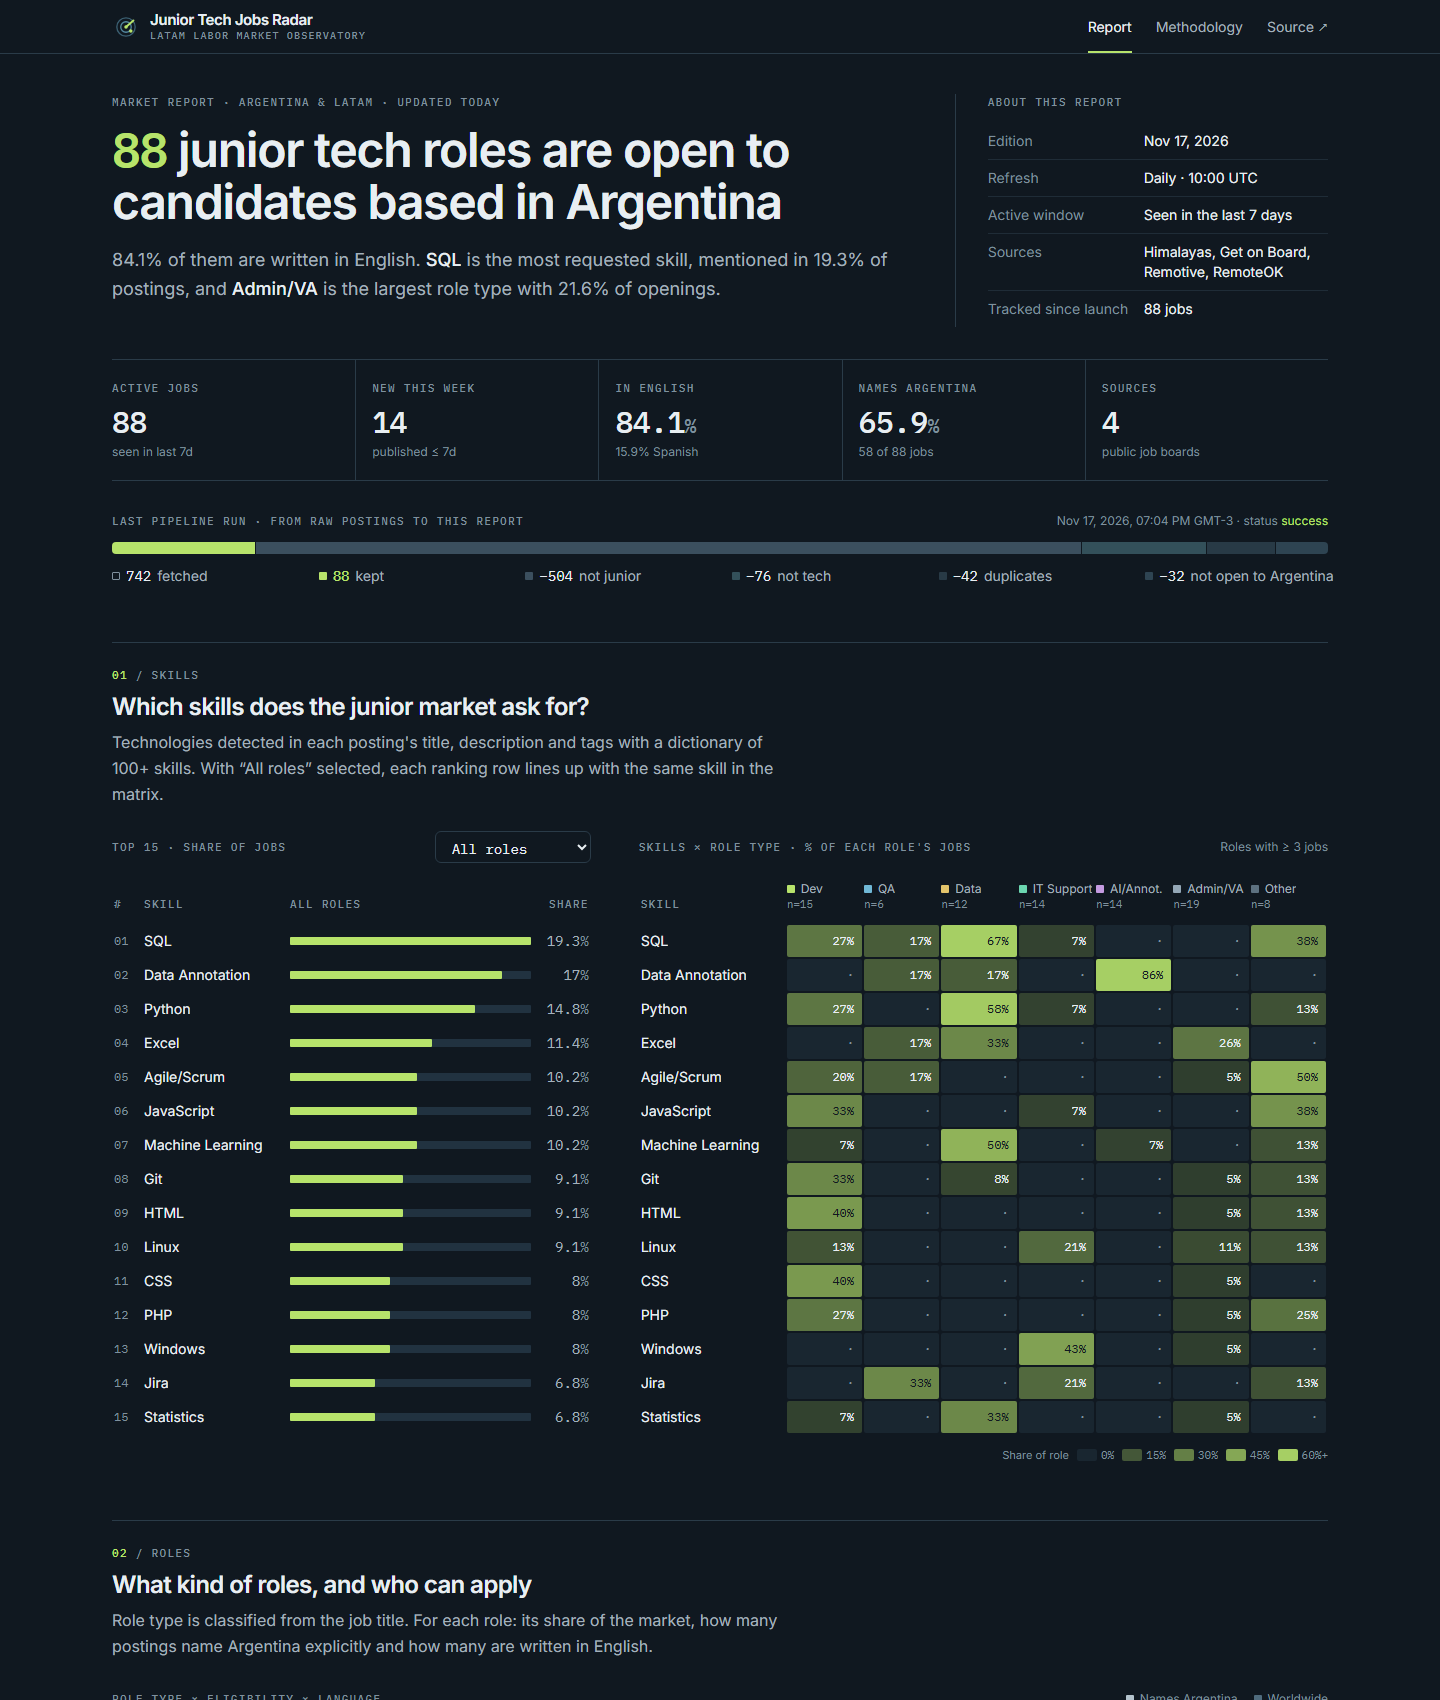
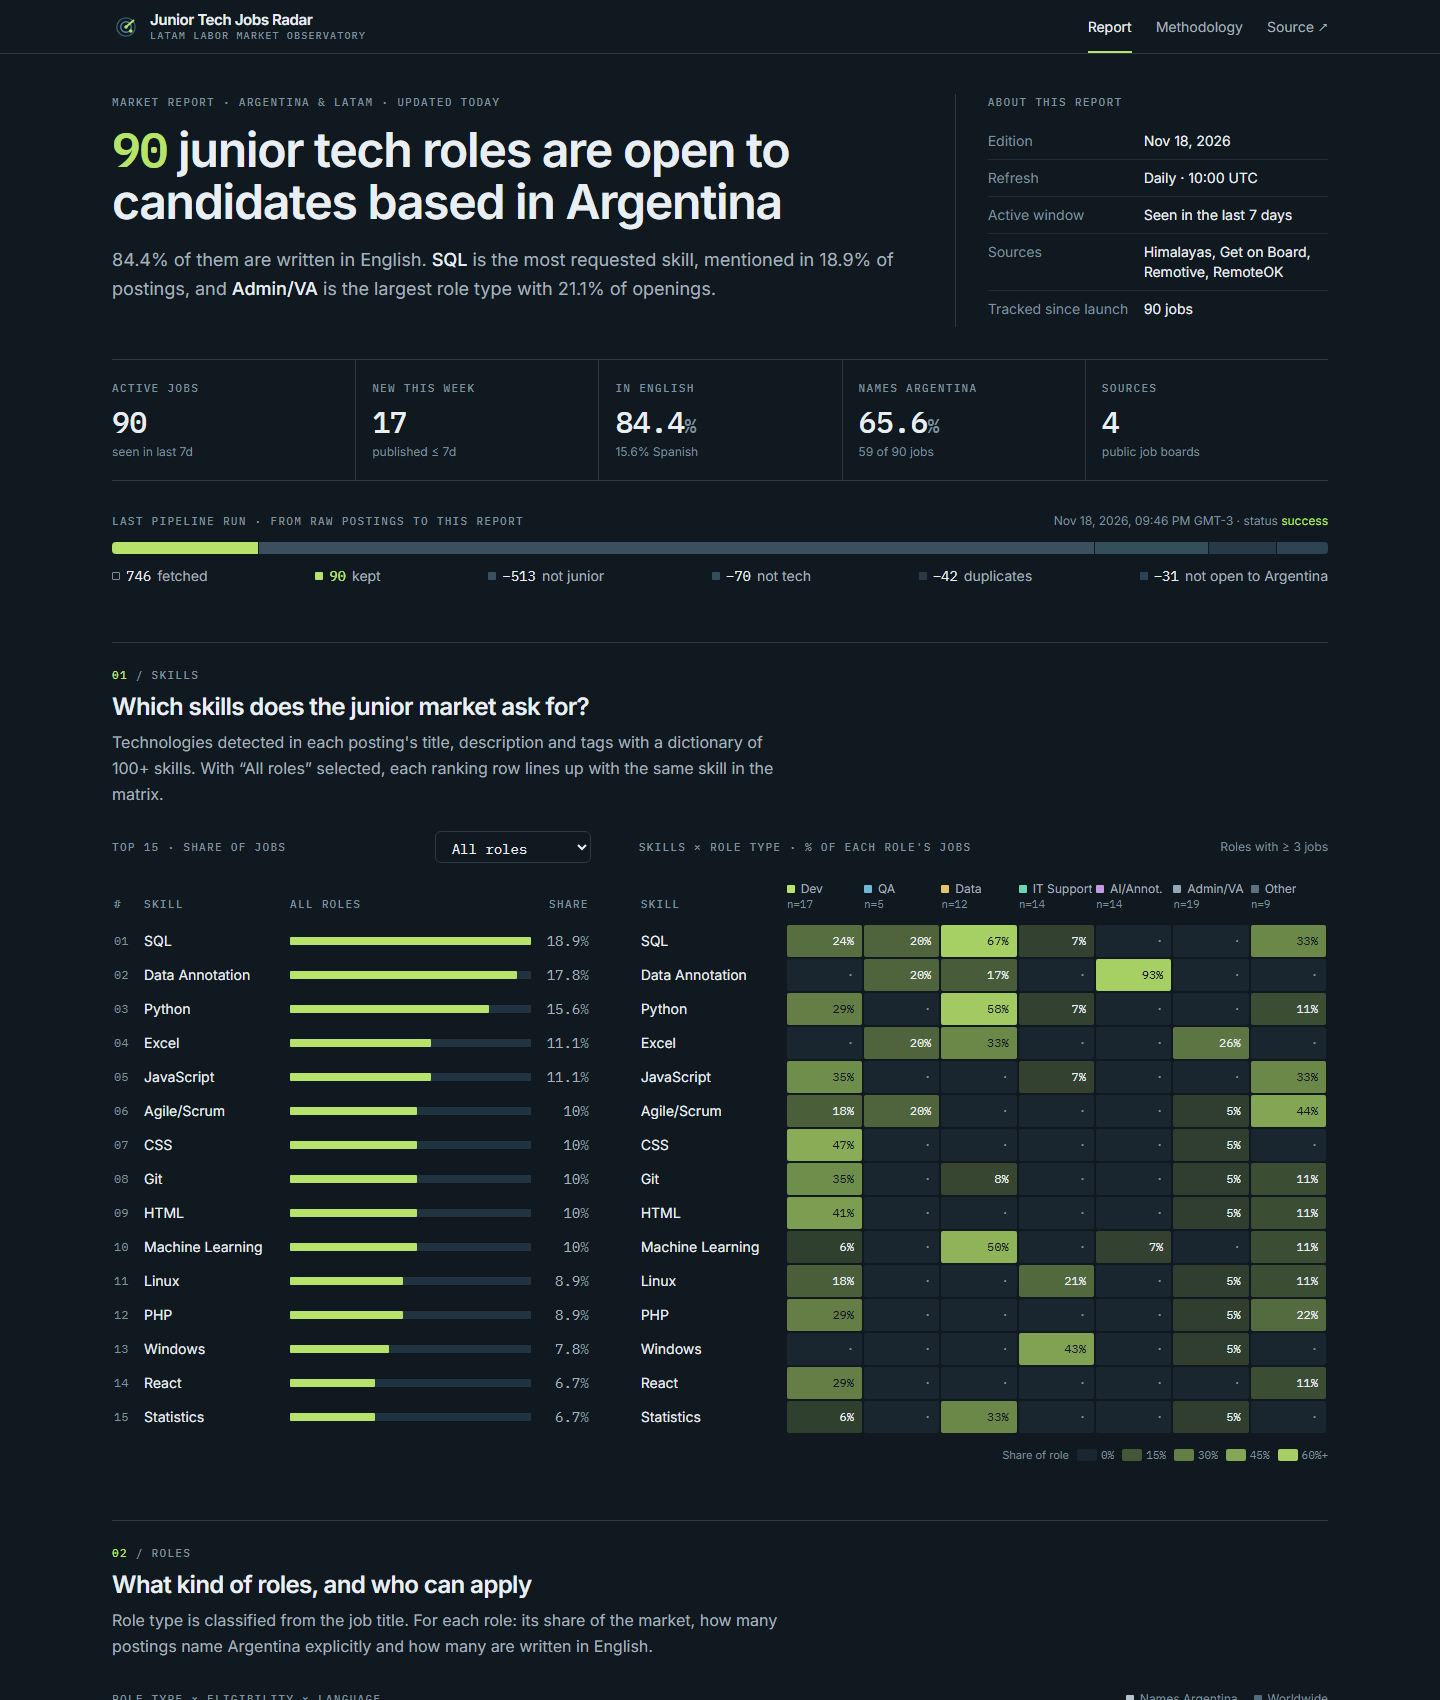
docs: live demo link and production screenshots (#27)

diff --git a/README.md b/README.md
@@ -12,7 +12,7 @@
 ![React](https://img.shields.io/badge/React-19-61DAFB?logo=react&logoColor=black)
 ![TypeScript](https://img.shields.io/badge/TypeScript-strict-3178C6?logo=typescript&logoColor=white)
 
-### [🔗 Live demo](#live-demo) · [📐 Methodology](#methodology) · [📋 Project board](https://github.com/users/lucaswsanchez/projects/1)
+### [🔗 Live demo](https://junior-tech-jobs-radar.vercel.app) · [📐 Methodology](https://junior-tech-jobs-radar.vercel.app/methodology) · [📋 Project board](https://github.com/users/lucaswsanchez/projects/1)
 
 <img src="docs/img/dashboard.png" alt="Junior Tech Jobs Radar dashboard: headline indicators, pipeline funnel, skills ranking and skills by role matrix" width="900" />
 
@@ -23,7 +23,7 @@
 The dashboard is a static site, so it loads instantly (no backend cold start). Its data is
 refreshed every day by GitHub Actions.
 
-> **Live URL:** added with the deployment. See issue [#12](https://github.com/lucaswsanchez/junior-tech-jobs-radar/issues/12).
+> **[junior-tech-jobs-radar.vercel.app](https://junior-tech-jobs-radar.vercel.app)**: open it, no sign-up needed. Data is stored in Supabase PostgreSQL and refreshed daily at 10:00 UTC.
 
 ## Features
 
@@ -35,7 +35,7 @@ refreshed every day by GitHub Actions.
 - **PostgreSQL warehouse** with an idempotent upsert and run metrics (`pipeline_runs`).
 - **8 analytical SQL queries**: top skills by role, remote share, weekly trend, skill co-occurrence with lift, and more.
 - **Market report dashboard**:
-  - headline indicators and a pipeline funnel (742 fetched → 88 kept on the first run)
+  - headline indicators and a pipeline funnel (746 postings fetched → 90 junior jobs kept on the first production run)
   - skills ranking and a skills × role heatmap
   - role × eligibility × language table, weekly trend and sources
   - a sortable, filterable job explorer, where every row links to the original posting

diff --git a/CHANGELOG.md b/CHANGELOG.md
@@ -7,7 +7,7 @@ and this project adheres to [Semantic Versioning](https://semver.org/spec/v2.0.0
 
 ## [1.0.0] - 2026-11-18
 
-First public release.
+First public release, live at https://junior-tech-jobs-radar.vercel.app.
 
 ### Added
 
@@ -29,6 +29,8 @@ First public release.
   explorer; Methodology page; loading, error and empty states; responsive layout.
 - **Quality**: 164 Python tests (pytest, 100% coverage of the transform package) and 13 frontend
   tests (Vitest); Ruff, mypy (strict), oxlint and Prettier; CI on every pull request.
+- **Deployment**: Supabase PostgreSQL as the warehouse (daily GitHub Actions run) and Vercel for
+  the static dashboard, with SPA rewrites and no-cache headers for the data snapshot.
 - **Tooling**: Dockerfile and Docker Compose stack (PostgreSQL + pipeline + dashboard),
   `.env.example`, `.editorconfig`.
 
